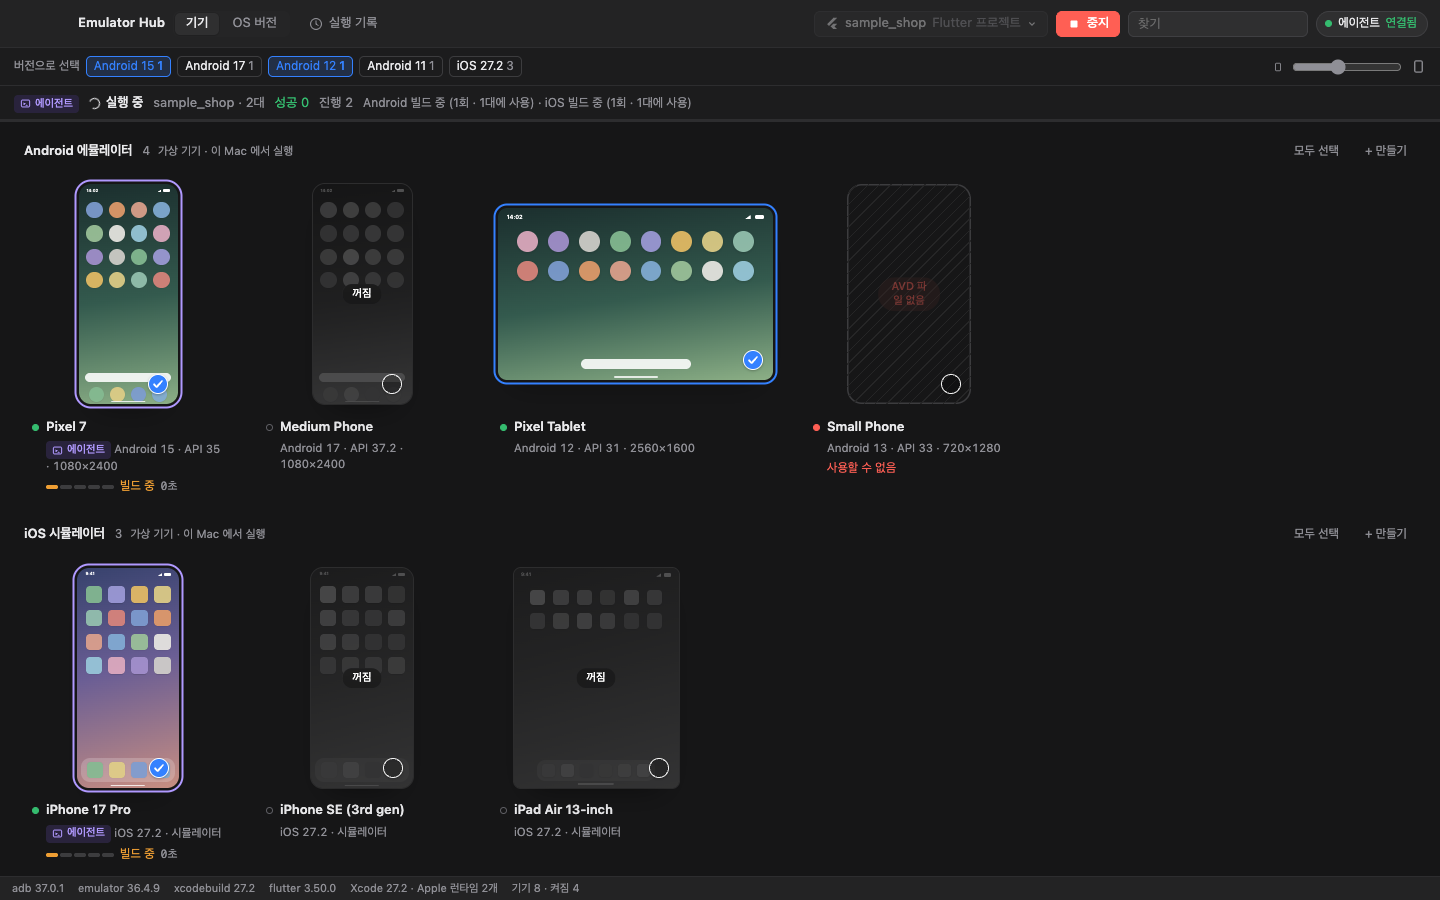
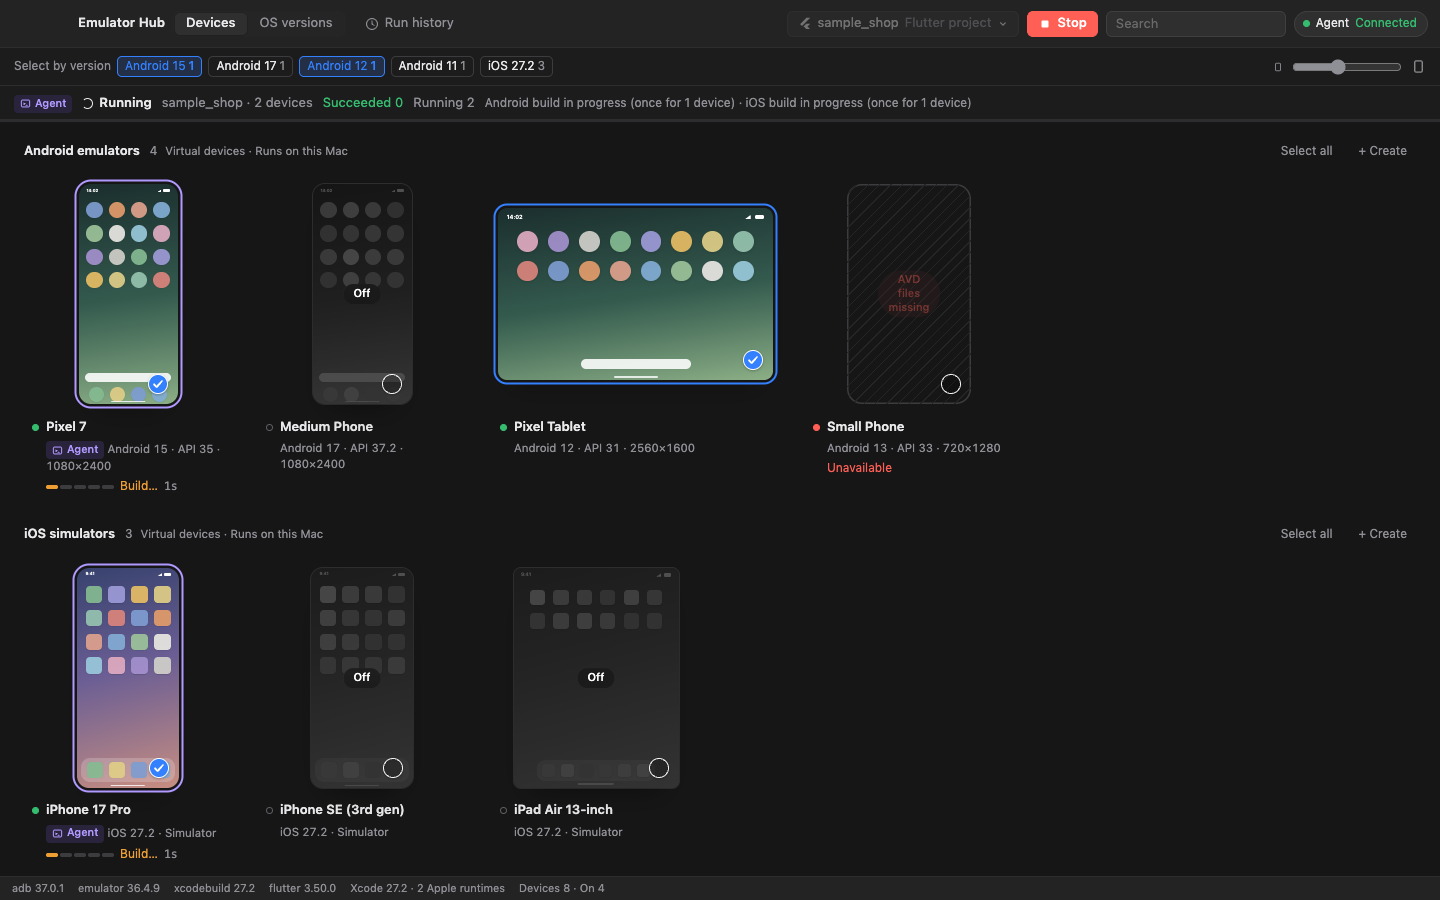
Note English and Korean support and use English screenshots

diff --git a/README.ko.md b/README.ko.md
@@ -19,7 +19,7 @@
 </div>
 
 > [!NOTE]
-> 지금 앱 화면은 **한국어만** 지원합니다. 영어 화면은 준비 중입니다. 스크린샷은 예시 데이터입니다.
+> 앱은 **한국어와 영어**를 지원합니다. macOS 언어를 따르며 **View › 언어** 에서 바꿀 수 있습니다. 스크린샷은 예시 데이터입니다.
 
 ## 왜 만들었나
 

diff --git a/README.md b/README.md
@@ -19,7 +19,7 @@ English · [한국어](README.ko.md)
 </div>
 
 > [!NOTE]
-> The app UI is currently **Korean only**. English UI is planned. Screenshots use sample data.
+> The app is available in **English and Korean**. It follows your macOS language; change it in **View › Language**. Screenshots use sample data.
 
 ## Why
 
